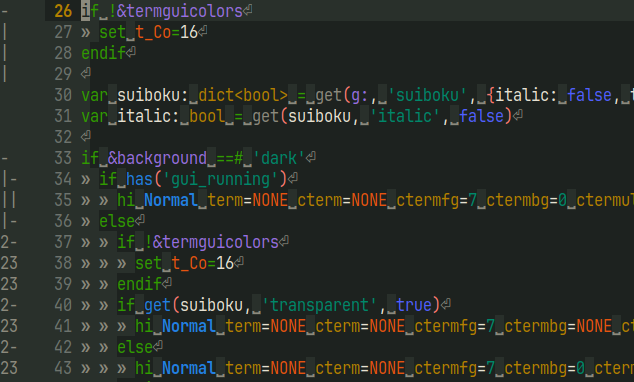
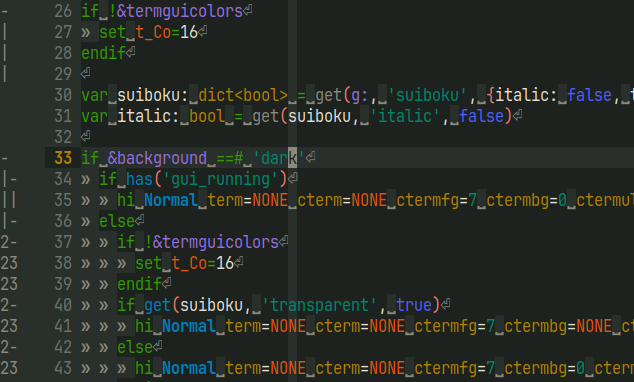
change color

diff --git a/.config/vim/colors/suiboku.html b/.config/vim/colors/suiboku.html
@@ -67,9 +67,9 @@
 	<tr><td>Vermilion</td> <td>Vermilion</td> <td>dc322f</td><td style="background: #dc322f;"></td><td>1</td> <td>62.7</td><td>-28.9</td><td></td>                                      <td lang="ja">朱</td></tr>
 	<tr><td>KOSHIABURA</td><td>KOSHIABURA</td><td>309c00</td><td style="background: #309c00;"></td><td>2</td> <td>54.9</td><td>-36.7</td><td></td>                                      <td lang="ja">漉油</td></tr>
 	<tr><td>Ochre</td>     <td>Ochre</td>     <td>b48000</td><td style="background: #b48000;"></td><td>3</td> <td>52.4</td><td>-32.4</td><td></td>                                      <td lang="ja">黄土</td></tr>
-	<tr><td>SEIRAN</td>    <td>SEIRAN</td>    <td>2280e4</td><td style="background: #2280e4;"></td><td>4</td> <td>58.8</td><td>-32.8</td><td></td>                                      <td lang="ja">青藍</td></tr>
+	<tr><td>SEIRAN</td>    <td>SEIRAN</td>    <td>0080bd</td><td style="background: #0080bd;"></td><td>4</td> <td>61.7</td><td>-29.9</td><td></td>                                      <td lang="ja">青藍</td></tr>
 	<tr><td>Lotus</td>     <td>Lotus</td>     <td>e14096</td><td style="background: #e14096;"></td><td>5</td> <td>57.5</td><td>-34.1</td><td></td>                                      <td lang="ja">蓮</td></tr>
-	<tr><td>Iris</td>      <td>Iris</td>      <td>4f5fdf</td><td style="background: #4f5fdf;"></td><td>6</td> <td>67.6</td><td>-24.1</td><td></td>                                      <td lang="ja">菖蒲</td></tr>
+	<tr><td>Iris</td>      <td>Iris</td>      <td>4f5fff</td><td style="background: #4f5fff;"></td><td>6</td> <td>64.6</td><td>-27.1</td><td></td>                                      <td lang="ja">菖蒲</td></tr>
 	<tr><td>Fog</td>       <td>Fog</td>       <td>e6e1d1</td><td style="background: #e6e1d1;"></td><td>7</td> <td>7.5</td> <td>-86.3</td><td>light sub background / dark foreground</td><td lang="ja">霧</td></tr>
 	<tr><td>AOZUMI</td>    <td>AOZUMI</td>    <td>29302b</td><td style="background: #29302b;"></td><td>8</td> <td>92.2</td><td>0.0</td>  <td>light foreground / dark sub background</td><td lang="ja">青墨</td></tr>
 	<tr><td>Peony</td>     <td>Peony</td>     <td>ff786e</td><td style="background: #ff786e;"></td><td>9</td> <td>41.9</td><td>-50.0</td><td></td>                                      <td lang="ja">牡丹</td></tr>

diff --git a/.config/vim/colors/suiboku.css b/.config/vim/colors/suiboku.css
@@ -29,7 +29,7 @@ h1{
 }
 
 a:link {
-	color: #2280e4;
+	color: #0080bd;
 }
 
 a:visited {
@@ -112,12 +112,12 @@ caption{
 }
 
 .vim-boolean {
-	color: #4f5fdf;
+	color: #4f5fff;
 }
 
 .vim-hl-group {
 	font-weight: bold;
-	color: #2280e4;
+	color: #0080bd;
 }
 
 .vim-sep{
@@ -204,7 +204,7 @@ table.suiboku tr:nth-child(6) td:nth-child(2) {
 
 table.suiboku tr:nth-child(7) td:nth-child(1),
 table.suiboku tr:nth-child(7) td:nth-child(2) {
-	color: #2280e4;
+	color: #0080bd;
 }
 
 table.suiboku tr:nth-child(8) td:nth-child(1),
@@ -214,7 +214,7 @@ table.suiboku tr:nth-child(8) td:nth-child(2) {
 
 table.suiboku tr:nth-child(9) td:nth-child(1),
 table.suiboku tr:nth-child(9) td:nth-child(2) {
-	color: #4f5fdf;
+	color: #4f5fff;
 }
 
 table.suiboku tr:nth-child(10) td:nth-child(2) {

diff --git a/.config/vim/colors/contrast.py b/.config/vim/colors/contrast.py
@@ -11,9 +11,9 @@ colors = {
     '#dc322f': 'Vermilion',
     '#309c00': 'KOSHIABURA',
     '#b48000': 'Ochre',
-    '#2280e4': 'SEIRAN',
+    '#0080bd': 'SEIRAN',
     '#e14096': 'Lotus',
-    '#4f5fdf': 'Iris',
+    '#4f5fff': 'Iris',
     '#e6e1d1': 'Fog',
     '#29302b': 'AOZUMI',
     '#ff786e': 'Peony',
@@ -24,6 +24,7 @@ colors = {
     '#8c8a7d': 'Gray',
     '#f7f2e1': 'WASHI',
 }
+
 
 def apca_lc(text_rgb, bg_rgb) -> float:  # 簡易版
     def relative_luminance(rgb):
